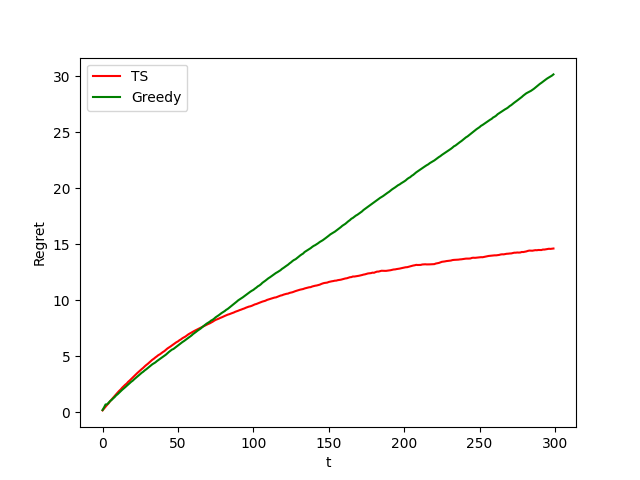
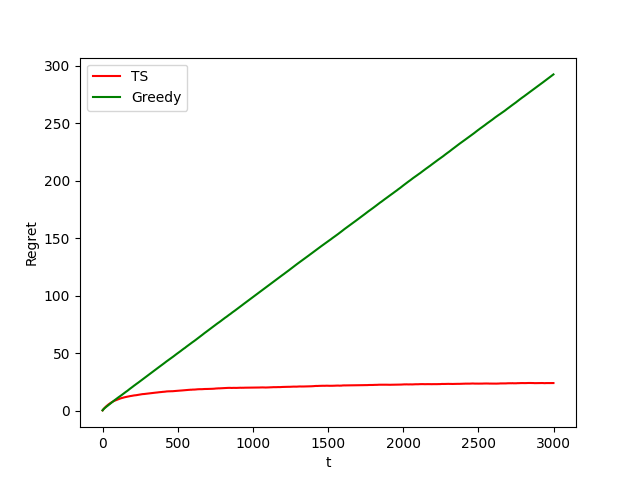
nothing important

diff --git a/lectures/pricing_enviroment.py b/lectures/pricing_enviroment.py
@@ -1,0 +1,43 @@
+import numpy as np
+
+
+class PricingEnvironment:
+    '''Pricing Environment class.'''
+    
+    def __init__(self, n_arms, prices, p):
+        '''Initialize the Pricing Environment class with a number of arms, a list of prices, 
+        a list of conversion rate curves for each subcampaign and the current subcampaign.'''
+        
+        # Assignments and Initializations
+        self.n_arms = n_arms
+        self.probabilities = self.conv_rate(prices)
+        self.prices = prices
+        
+    def round(self, pulled_arm):
+        '''Simulates the reward as a Bernoulli considering the current probabilities for the pulled arm.'''
+        
+        # print(self.probabilities)
+        # print(self.prices)
+        # print(self.prices[pulled_arm])
+        # print(self.probabilities(self.prices[pulled_arm]), pulled_arm)
+        
+        # The reward is Bernoulli with probability based on the conversion rate curve for the current pulled arm
+        reward = np.random.binomial(1, self.probabilities(self.prices[pulled_arm]))
+        return reward
+
+    def conv_rate(x, a=1, b=1, c=1):
+        return ((c*x) ** a) * np.exp(-b * c * x)
+
+    def cost_per_click(bid, alpha):
+        beta = np.sqrt(bid)
+        return bid * np.random.beta(alpha, beta, 1)
+
+
+    def return_probability(_lambda, size=100000):
+        return np.random.poisson(_lambda, size=size)
+
+    def new_clicks(bid, Na=10000, p0=0.01, cc=0.44):
+        p = 1-(cc/(2*bid))
+        mean = Na*p*p0
+        sd = (Na*p*p0*(1-p0))**0.5
+        return np.random.normal(mean,sd)

diff --git a/lectures/comparison_example.py b/lectures/comparison_example.py
@@ -9,7 +9,7 @@ n_arms = 4
 p = np.array([ 0.15, 0.1, 0.1, 0.35])
 opt = p[3]
 
-T = 300
+T = 3000
 
 # number of exp to perform
 n_experiments = 1000
